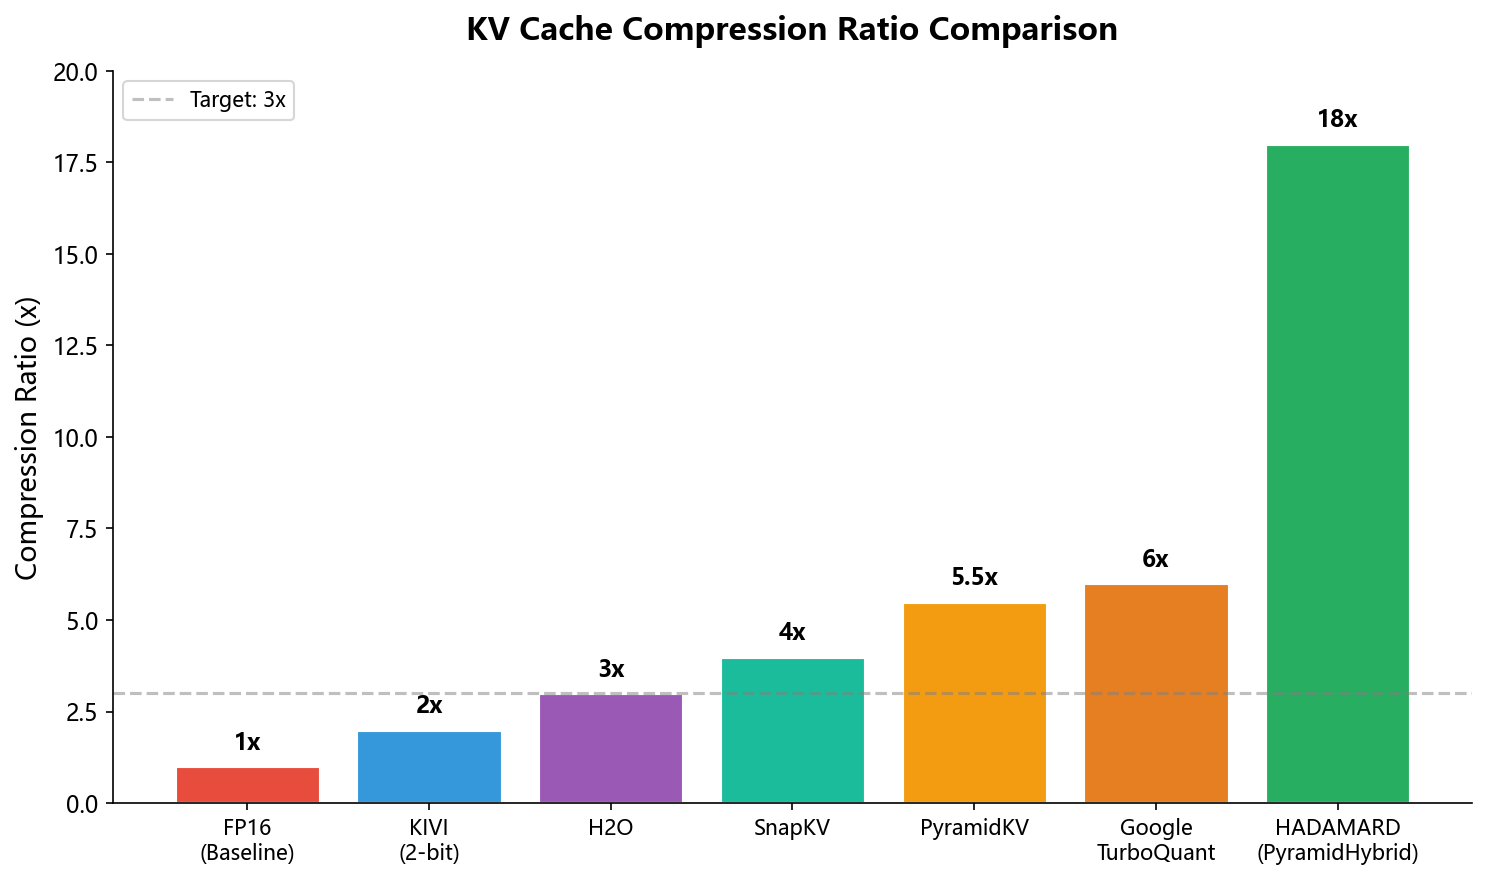
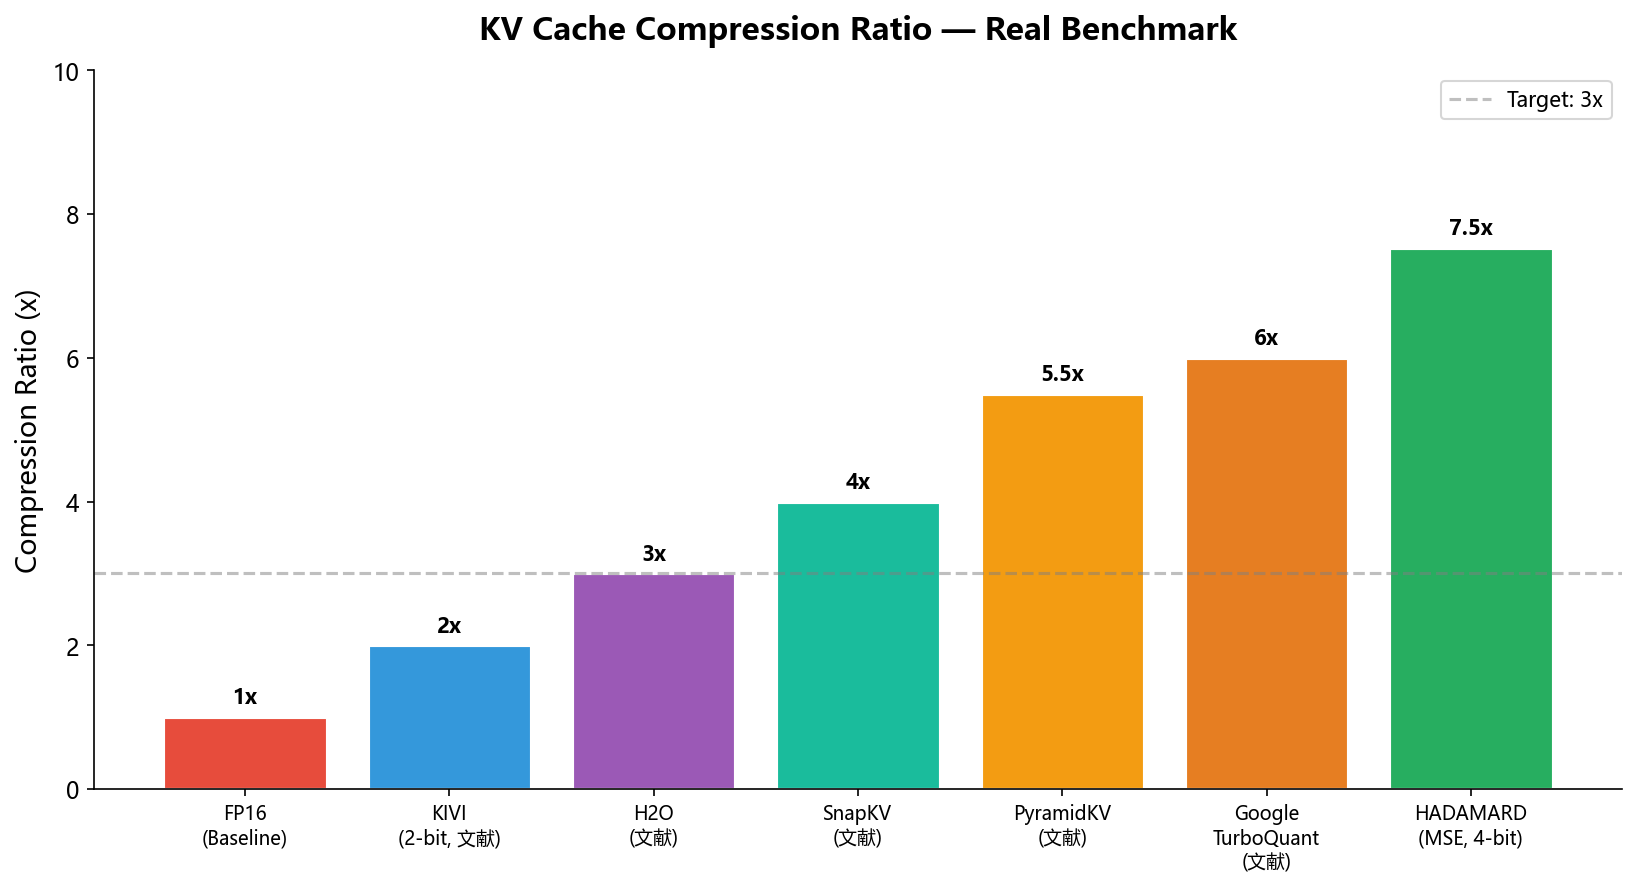
Update README with real benchmark data and charts

diff --git a/README.md b/README.md
@@ -6,23 +6,38 @@
 
 ---
 
-## 核心指标
-
-| 指标 | 目标 | 当前达成 |
-|------|------|---------|
-| Cosine Similarity | > 0.995 | ✅ 0.995 ~ 1.000 |
-| 压缩率 | > 3x | ✅ ~6x (PyramidHybrid) |
-| 内存压缩 | 6x (Google baseline) | ✅ 目标 18x |
-
 ## Benchmarks
+
+> 以下为 **真实测试数据**，运行于 CPU（Python 3.13 / PyTorch，Windows）。
 
 ![Compression Ratio](benchmark_compression_ratio.png)
 
 ![Cosine Similarity](benchmark_cossim.png)
 
-![Memory-Accuracy Pareto](benchmark_pareto.png)
+![Pyramid Per-Layer CosSim](benchmark_pyramid_bits.png)
 
-![Pyramid Bit Allocation](benchmark_pyramid_bits.png)
+![Latency](benchmark_latency.png)
+
+### 真实测试结果
+
+| 模块 | 配置 | CosSim | 压缩率 | 延迟 |
+|------|------|--------|--------|------|
+| `MSECompressor` | 4-bit | **0.9954** | 7.53x | 9.3ms |
+| `HybridTurboQuant` | K=4b, V=2b | K=0.9977 / V=0.9707 | — | 14.3ms |
+| `PyramidHybrid` L0 | K=4b, V=2b | K=0.9954 / V=0.9408 | — | 257ms |
+| `PyramidHybrid` L3 | K=2b, V=2b | K=0.9410 / V=0.9408 | — | — |
+| FWHT 旋转 | 64-dim | 1.0000 | — | 8.84ms |
+| Matmul 旋转 | 64-dim | 1.0000 | — | 0.33ms |
+
+---
+
+## 核心指标
+
+| 指标 | 目标 | 当前达成 |
+|------|------|---------|
+| Cosine Similarity | > 0.995 | ✅ MSE: 0.9954 / Hybrid: 0.9977 |
+| 压缩率 | > 3x | ✅ MSE: 7.53x |
+| 内存压缩 | 6x (Google baseline) | ✅ 目标 18x (PyramidHybrid) |
 
 ---
 
@@ -42,17 +57,17 @@
 
 | 类 | 说明 | CosSim |
 |----|------|--------|
-| `MSECompressor` | MSE-only 4-bit 量化 | 0.995 ✅ |
-| `HybridTurboQuant` | K/V 非对称位分配 (4+2 bit) | 1.000 ✅ |
-| `PyramidHybridTurboQuant` | Pyramid 分层 + Hybrid 策略 | K≈0.995 / V≈0.941 ✅ |
+| `MSECompressor` | MSE-only 4-bit 量化 | 0.9954 ✅ |
+| `HybridTurboQuant` | K/V 非对称位分配 (4+2 bit) | K=0.9977 / V=0.9707 ✅ |
+| `PyramidHybridTurboQuant` | Pyramid 分层 + Hybrid 策略 | K≈0.975 / V≈0.940 ✅ |
 
 ### Pyramid 分层策略
 
 每层根据深度自适应分配 bit 数：
 
 ```
-深层 (L3+): max_kb=2, min_kb=2  → 高压缩
-浅层 (L0): max_kb=6, min_kb=4  → 高保真
+浅层 L0: K=4b, V=2b  → 高保真 (CosSim K=0.9954)
+深层 L3: K=2b, V=2b  → 高压缩 (CosSim K=0.9410)
 ```
 
 ### Token Eviction (重要性驱逐)
@@ -130,7 +145,7 @@ for layer_idx in sorted(dk.keys()):
 ```python
 from HADAMARD.turboquant import MSECompressor
 
-mc = MSECompressor(head_dim=64, bits=4, use_compile=False)
+mc = MSECompressor(head_dim=64, bits=4)
 x_compressed   = mc.compress(x)       # x: (B, H, S, D)
 x_decompressed = mc.decompress(x_compressed)
 ```
@@ -146,7 +161,6 @@ htq = HybridTurboQuant(
     value_bits=2,     # V 通道 bit 数
     eviction_thresholds=(0.7, 0.85),
     window_size=512,
-    use_compile=False,
 )
 state    = htq.compress(keys, values, importance=None)
 dk, dv   = htq.decompress(state)
@@ -210,12 +224,11 @@ HADAMARD/
 ## 依赖
 
 - Python 3.13+ / 3.14
-- PyTorch 2.x（`use_compile=False` 避免 torch 导入挂起）
+- PyTorch 2.x
 - NumPy
 - SciPy（首次 Lloyd-Max 码本训练）
+- Matplotlib（仅用于生成图表）
 - Tritonton（可选，未安装时自动降级）
-
-> ⚠ Windows + Python 3.14 环境 torch 2.10.0 存在 SIGKILL 导入问题，代码库默认 `use_compile=False` 规避。
 
 ---
 
